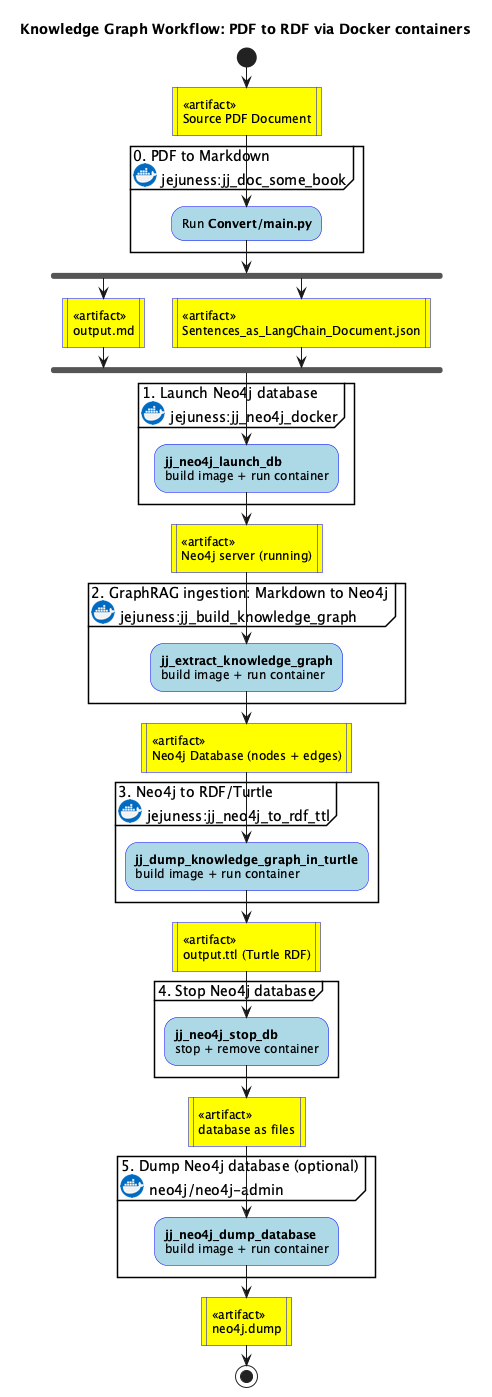
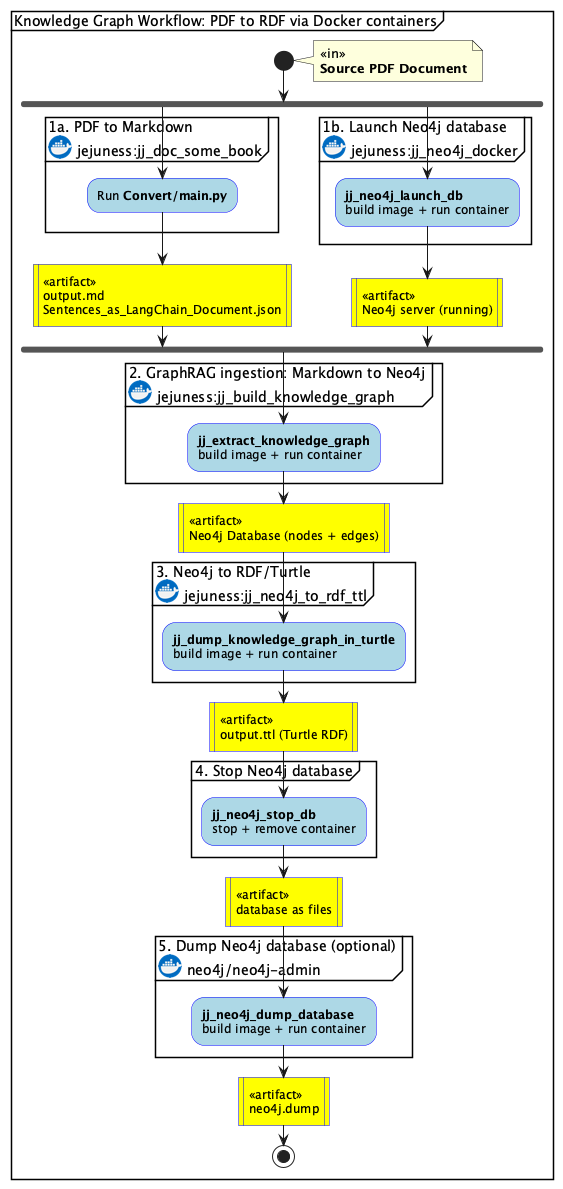
UPdated workflow diagram

diff --git a/Readme.md b/Readme.md
@@ -20,8 +20,8 @@ Note: above image was generated from [workflow.puml](./Doc/workflow.puml) with `
 
 | Stage | Shell Function | Docker Image | Input | Output |
 | ----- | -------------- | ------------ | ----- | ------ |
-| 0. PDF to Markdown | (external: `jj_doc_some_book`) | — | PDF | `.md` + `.json` |
-| 1. Launch Neo4j | `jj_neo4j_launch_db` | `jejuness:jj_neo4j_docker` (built from [`jj_neo4j_docker`](https://github.com/EricBoix/jj_neo4j_docker)) | — | Neo4j server |
+| 1a. PDF to Markdown | (external: `jj_doc_some_book`) | — | PDF | `.md` + `.json` |
+| 1b. Launch Neo4j | `jj_neo4j_launch_db` | `jejuness:jj_neo4j_docker` (built from [`jj_neo4j_docker`](https://github.com/EricBoix/jj_neo4j_docker)) | — | Neo4j server |
 | 2. Markdown to Neo4j | `jj_extract_knowledge_graph` | `jejuness:jj_build_knowledge_graph` (built from [`jj_build_knowledge_graph`](https://github.com/EricBoix/jj_build_knowledge_graph)) | `.md` + `.json` | Neo4j DB |
 | 3. Neo4j to RDF | `jj_dump_knowledge_graph_in_turtle` | `jejuness:jj_neo4j_to_rdf_ttl` (built from [`jj_neo4j_to_rdf_ttl`](https://github.com/EricBoix/jj_neo4j_to_rdf_ttl)) | Neo4j DB | `.ttl` |
 | 4. Stop Neo4j | `jj_neo4j_stop_db` | — | — | — |